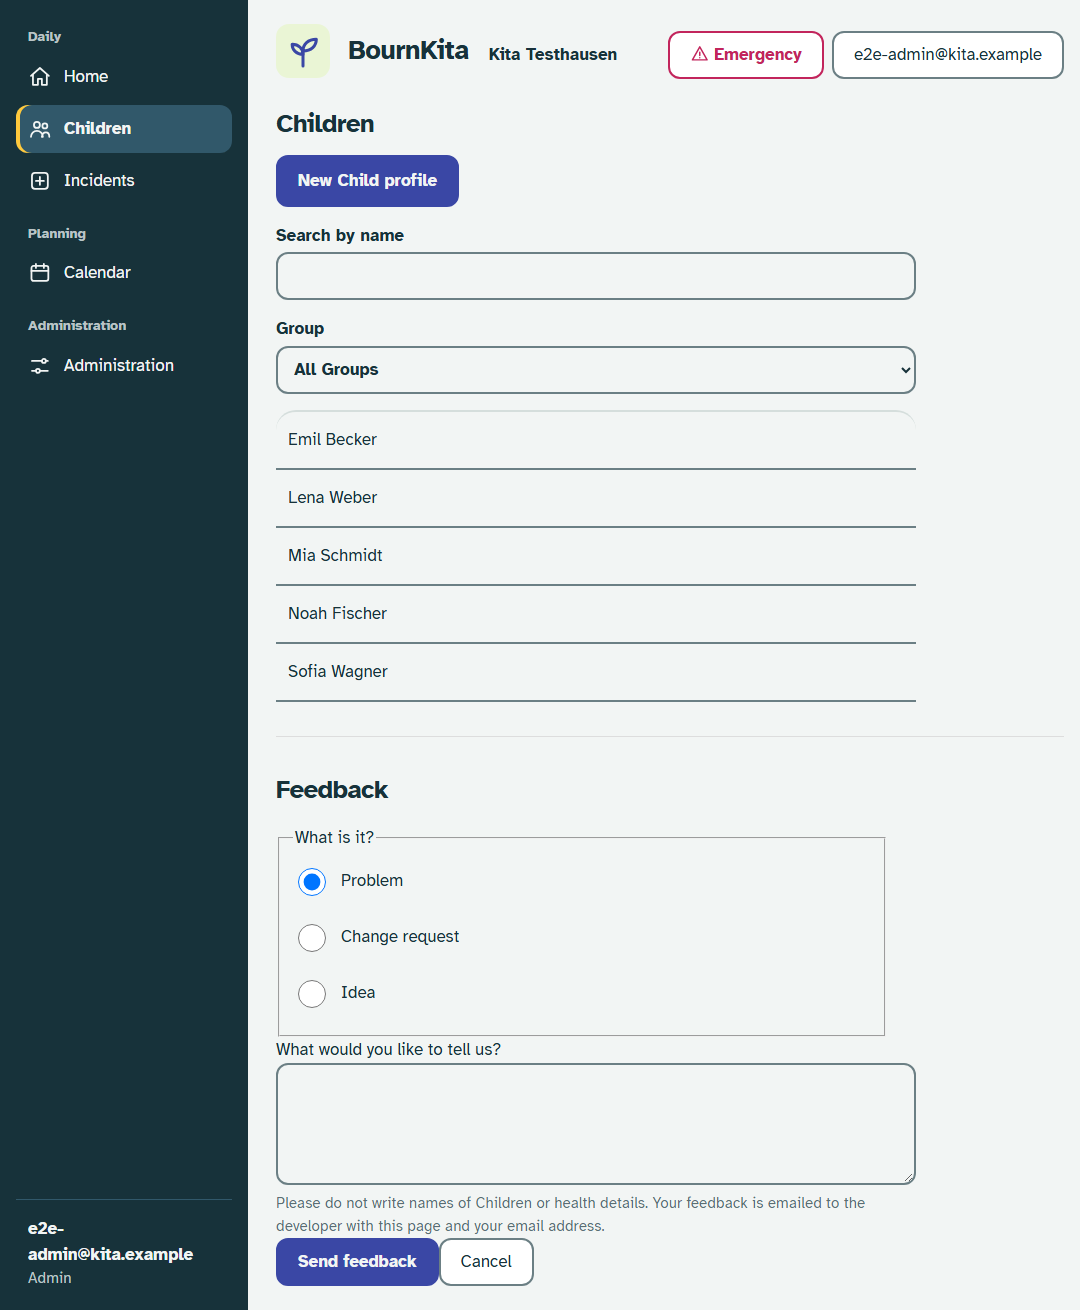
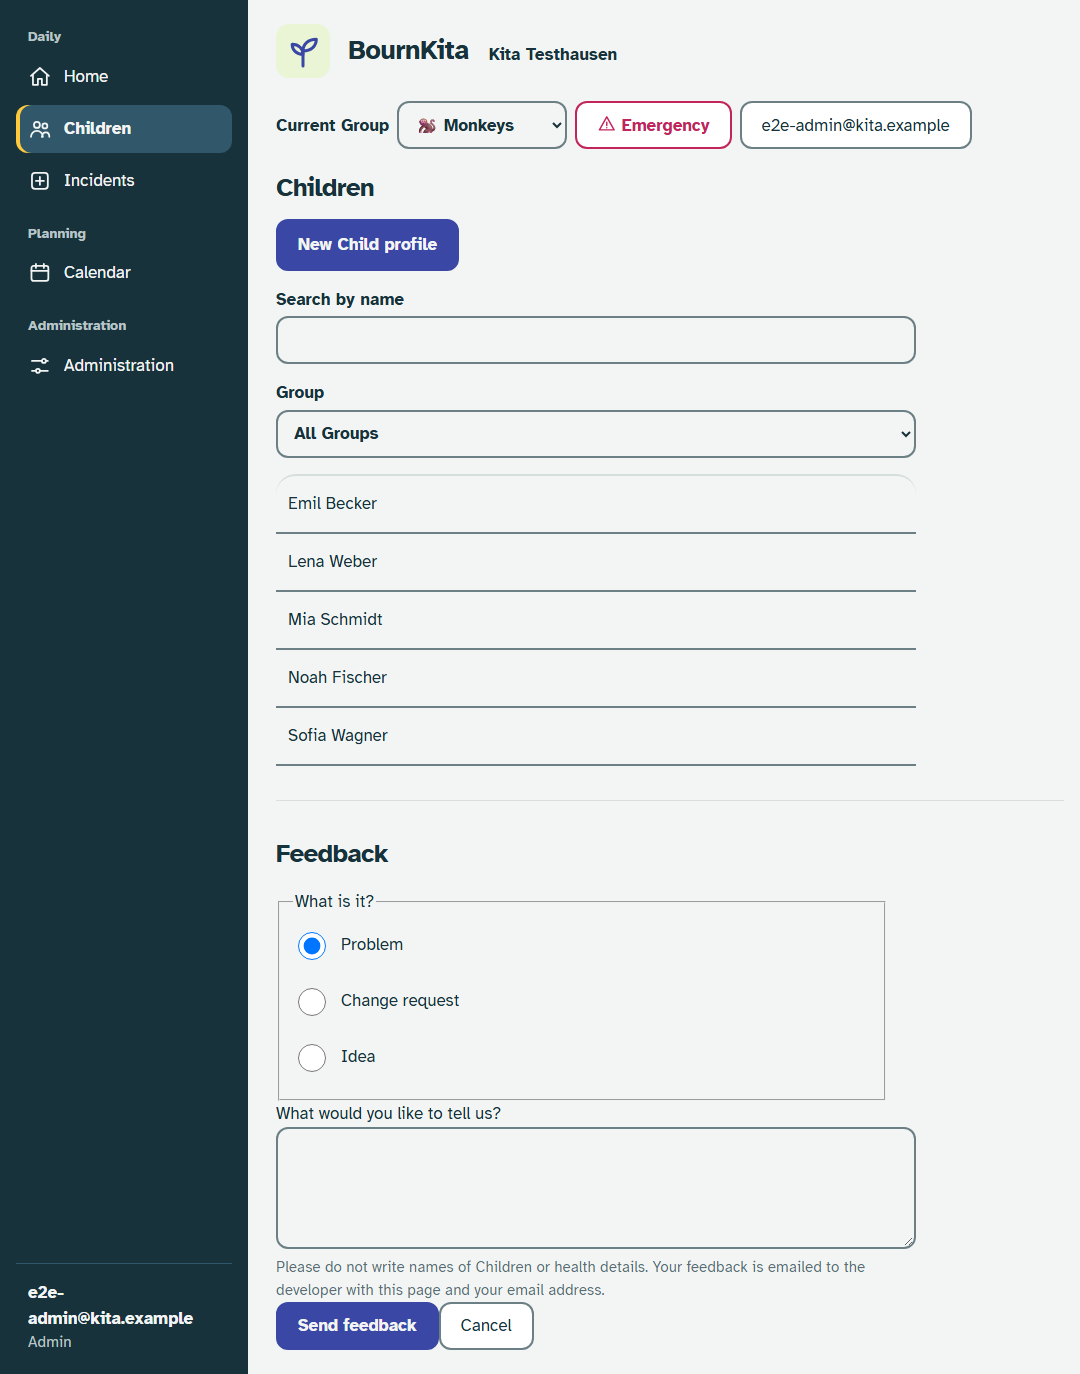
Choose the Group being worked with in the top bar (#60)
A "Current Group" drop-down in the top bar of every page: a Teacher's own
Groups, every Group for an Admin, and All Groups where there is more than
one. Choosing a Group opens its Today; the choice stays while other pages
are open, on that tablet. Guests have none.

diff --git a/frontend/src/GroupChoice.test.tsx b/frontend/src/GroupChoice.test.tsx
@@ -1,0 +1,94 @@
+// @vitest-environment happy-dom
+import { screen, within } from '@testing-library/react'
+import userEvent from '@testing-library/user-event'
+import { afterEach, describe, expect, it } from 'vitest'
+import App from './App'
+import { fakeApi, health, renderAt, sessionAs } from './testing'
+
+const monkeys = { id: 2, name: 'Monkeys', icon: 'monkey', mine: true }
+const butterflies = { id: 3, name: 'Butterflies', icon: 'butterfly', mine: false }
+
+function appAs(role: 'admin' | 'teacher' | 'guest', groups: unknown[]) {
+  return fakeApi({
+    'GET /api/health': health,
+    'GET /api/session': sessionAs(role),
+    'GET /api/groups': { status: 200, body: groups },
+    'GET /api/children': { status: 200, body: [] },
+  })
+}
+
+function topBarChoice() {
+  return screen.findByRole('combobox', { name: 'Current Group' })
+}
+
+function options(choice: HTMLElement) {
+  return within(choice)
+    .getAllByRole('option')
+    .map((option) => option.textContent?.trim())
+}
+
+describe('the Group drop-down in the top bar', () => {
+  afterEach(() => {
+    sessionStorage.clear()
+  })
+
+  it('starts on the only Group a Teacher works in', async () => {
+    appAs('teacher', [monkeys, butterflies])
+    renderAt('/children', <App />)
+
+    const choice = await topBarChoice()
+    expect(options(choice)).toEqual(['🐒 Monkeys'])
+    expect(choice).toHaveDisplayValue('🐒 Monkeys')
+  })
+
+  it('offers Admins every Group and All Groups, and opens the chosen Group', async () => {
+    appAs('admin', [monkeys, butterflies])
+    renderAt('/children', <App />)
+
+    const choice = await topBarChoice()
+    expect(options(choice)).toEqual(['All Groups', '🐒 Monkeys', '🦋 Butterflies'])
+    expect(choice).toHaveDisplayValue('All Groups')
+
+    await userEvent.selectOptions(choice, '🦋 Butterflies')
+
+    expect(await screen.findByRole('navigation', { name: 'The Group’s pages' })).toBeInTheDocument()
+    expect(await topBarChoice()).toHaveDisplayValue('🦋 Butterflies')
+  })
+
+  it('offers All Groups to a Teacher in several Groups', async () => {
+    appAs('teacher', [monkeys, { ...butterflies, mine: true }])
+    renderAt('/children', <App />)
+
+    expect(options(await topBarChoice())).toEqual(['All Groups', '🐒 Monkeys', '🦋 Butterflies'])
+  })
+
+  it('shows the Group whose pages are open', async () => {
+    appAs('admin', [monkeys, butterflies])
+    renderAt('/groups/3/board', <App />)
+
+    expect(await topBarChoice()).toHaveDisplayValue('🦋 Butterflies')
+  })
+
+  it('keeps the chosen Group while other pages are open', async () => {
+    appAs('admin', [monkeys, butterflies])
+    renderAt('/children', <App />)
+
+    await userEvent.selectOptions(await topBarChoice(), '🐒 Monkeys')
+    await userEvent.click(within(screen.getByRole('navigation', { name: 'Main navigation' })).getByRole('link', { name: /Children/ }))
+
+    expect(await topBarChoice()).toHaveDisplayValue('🐒 Monkeys')
+  })
+
+  it('is not there for Guests', async () => {
+    fakeApi({
+      'GET /api/health': health,
+      'GET /api/session': sessionAs('guest'),
+      'GET /api/groups': { status: 200, body: [monkeys] },
+      'GET /api/calendar?from=2026-11-01&to=2026-12-01': { status: 200, body: { events: [], holidays: [], birthdays: [] } },
+    })
+    renderAt('/calendar', <App />)
+
+    await screen.findByRole('navigation', { name: 'Main navigation' })
+    expect(screen.queryByRole('combobox', { name: 'Current Group' })).toBeNull()
+  })
+})

diff --git a/frontend/src/GroupChoice.tsx b/frontend/src/GroupChoice.tsx
@@ -1,0 +1,51 @@
+import { useEffect } from 'react'
+import { useTranslation } from 'react-i18next'
+import { useNavigate } from 'react-router-dom'
+import { groupIcons, type Role } from './api'
+import { useGroups } from './useGroups'
+
+// The Group last chosen on this tablet, kept while the browser tab stays open.
+const remembered = 'kita.group'
+
+/** In the top bar on every page: which Group the Staff member is working with. A Teacher has their
+ * own Groups, an Admin every Group; "All Groups" where there is more than one to choose from.
+ * Choosing a Group opens its Today; All Groups opens the start page. */
+export default function GroupChoice({ role, openGroupId }: { role: Role; openGroupId: number | null }) {
+  const { t } = useTranslation()
+  const navigate = useNavigate()
+  const groups = useGroups()
+
+  // A Group opened some other way (a link, a tile) is the one being worked with now.
+  useEffect(() => {
+    if (openGroupId !== null) sessionStorage.setItem(remembered, String(openGroupId))
+  }, [openGroupId])
+
+  if (!groups) return null
+  const offered = role === 'admin' ? groups : groups.filter((group) => group.mine)
+  if (offered.length === 0) return null
+  const offersAll = role === 'admin' || offered.length > 1
+
+  const stored = sessionStorage.getItem(remembered)
+  const isOffered = (id: string | null) => offered.some((group) => String(group.id) === id)
+  const value =
+    openGroupId !== null ? String(openGroupId) : isOffered(stored) || (stored === 'all' && offersAll) ? stored! : offersAll ? 'all' : String(offered[0].id)
+
+  function choose(choice: string) {
+    sessionStorage.setItem(remembered, choice)
+    navigate(choice === 'all' ? '/' : `/groups/${choice}`)
+  }
+
+  return (
+    <label className="group-choice">
+      {t('currentGroup')}
+      <select value={value} onChange={(event) => choose(event.target.value)}>
+        {offersAll && <option value="all">{t('allGroups')}</option>}
+        {offered.map((group) => (
+          <option key={group.id} value={String(group.id)}>
+            {groupIcons[group.icon]} {group.name}
+          </option>
+        ))}
+      </select>
+    </label>
+  )
+}

diff --git a/frontend/e2e/group-choice.spec.ts b/frontend/e2e/group-choice.spec.ts
@@ -1,0 +1,25 @@
+import { expect, test } from '@playwright/test'
+import { logInAsAdmin } from './credentials.ts'
+
+test('on a tablet, choosing a Group in the top bar opens its Today, and the choice stays', async ({ page }) => {
+  const groupName = `Hedgehogs ${Date.now()}`
+  await logInAsAdmin(page)
+  await page.getByRole('link', { name: 'Administration' }).tap()
+  await page.getByRole('link', { name: 'Groups' }).tap()
+  const newGroup = page.getByRole('form', { name: 'New Group' })
+  await newGroup.getByLabel('Name').fill(groupName)
+  await newGroup.getByRole('radio', { name: 'Hedgehog' }).check()
+  await newGroup.getByRole('button', { name: 'Create Group' }).tap()
+  await expect(page.getByRole('heading', { name: groupName })).toBeVisible()
+  // The new Group is offered after the next page load.
+  await page.goto('/children')
+
+  const choice = page.getByRole('combobox', { name: 'Current Group' })
+  await expect(choice).toHaveValue('all')
+  await choice.selectOption({ label: `🦔 ${groupName}` })
+
+  await expect(page.getByRole('navigation', { name: 'The Group’s pages' })).toBeVisible()
+  await expect(page.getByRole('heading', { name: groupName })).toBeVisible()
+  await page.getByRole('navigation', { name: 'Main navigation' }).getByRole('link', { name: 'Children' }).tap()
+  await expect(choice.locator('option:checked')).toHaveText(`🦔 ${groupName}`)
+})

diff --git a/frontend/src/AppHeader.tsx b/frontend/src/AppHeader.tsx
@@ -2,6 +2,7 @@ import { useTranslation } from 'react-i18next'
 import { Link, useMatch } from 'react-router-dom'
 import { logOut, type Kita, type Session } from './api'
 import EmergencyListLink from './EmergencyListLink'
+import GroupChoice from './GroupChoice'
 import HeaderMenu from './HeaderMenu'
 import LoginLink from './LoginLink'
 import { landingSectionIds } from './landingSections'
@@ -79,6 +80,7 @@ export default function AppHeader({ kita, session, onLanding, onLoggedOut }: Pro
         </div>
         {session ? (
           <div className="header-actions">
+            {!isGuest && <GroupChoice role={session.role} openGroupId={groupId} />}
             {/* Guests never see personal data, so no emergency list. */}
             {!isGuest && (
               <HeaderMenu

diff --git a/frontend/src/i18n.ts b/frontend/src/i18n.ts
@@ -509,6 +509,7 @@ export const resources = {
       filterIncidentLog: 'Filter the incident log',
       allChildren: 'All Children',
       allGroups: 'All Groups',
+      currentGroup: 'Current Group',
       show: 'Show',
       incidentAt: 'At {{time}}',
       informedWho: 'Informed: {{who}}',
@@ -1053,6 +1054,7 @@ export const resources = {
       filterIncidentLog: 'Vorfallbuch filtern',
       allChildren: 'Alle Kinder',
       allGroups: 'Alle Gruppen',
+      currentGroup: 'Aktuelle Gruppe',
       show: 'Anzeigen',
       incidentAt: 'Um {{time}}',
       informedWho: 'Informiert: {{who}}',

diff --git a/frontend/src/index.css b/frontend/src/index.css
@@ -194,6 +194,18 @@ h1 a {
   font-weight: 600;
 }
 
+/* The Group being worked with, in the top bar: its label beside the drop-down. */
+.group-choice {
+  display: flex;
+  align-items: center;
+  gap: 8px;
+  font-weight: 600;
+}
+
+.group-choice select {
+  min-width: 10rem;
+}
+
 /* Emergency and the account menu, top right. */
 .header-actions {
   display: flex;
